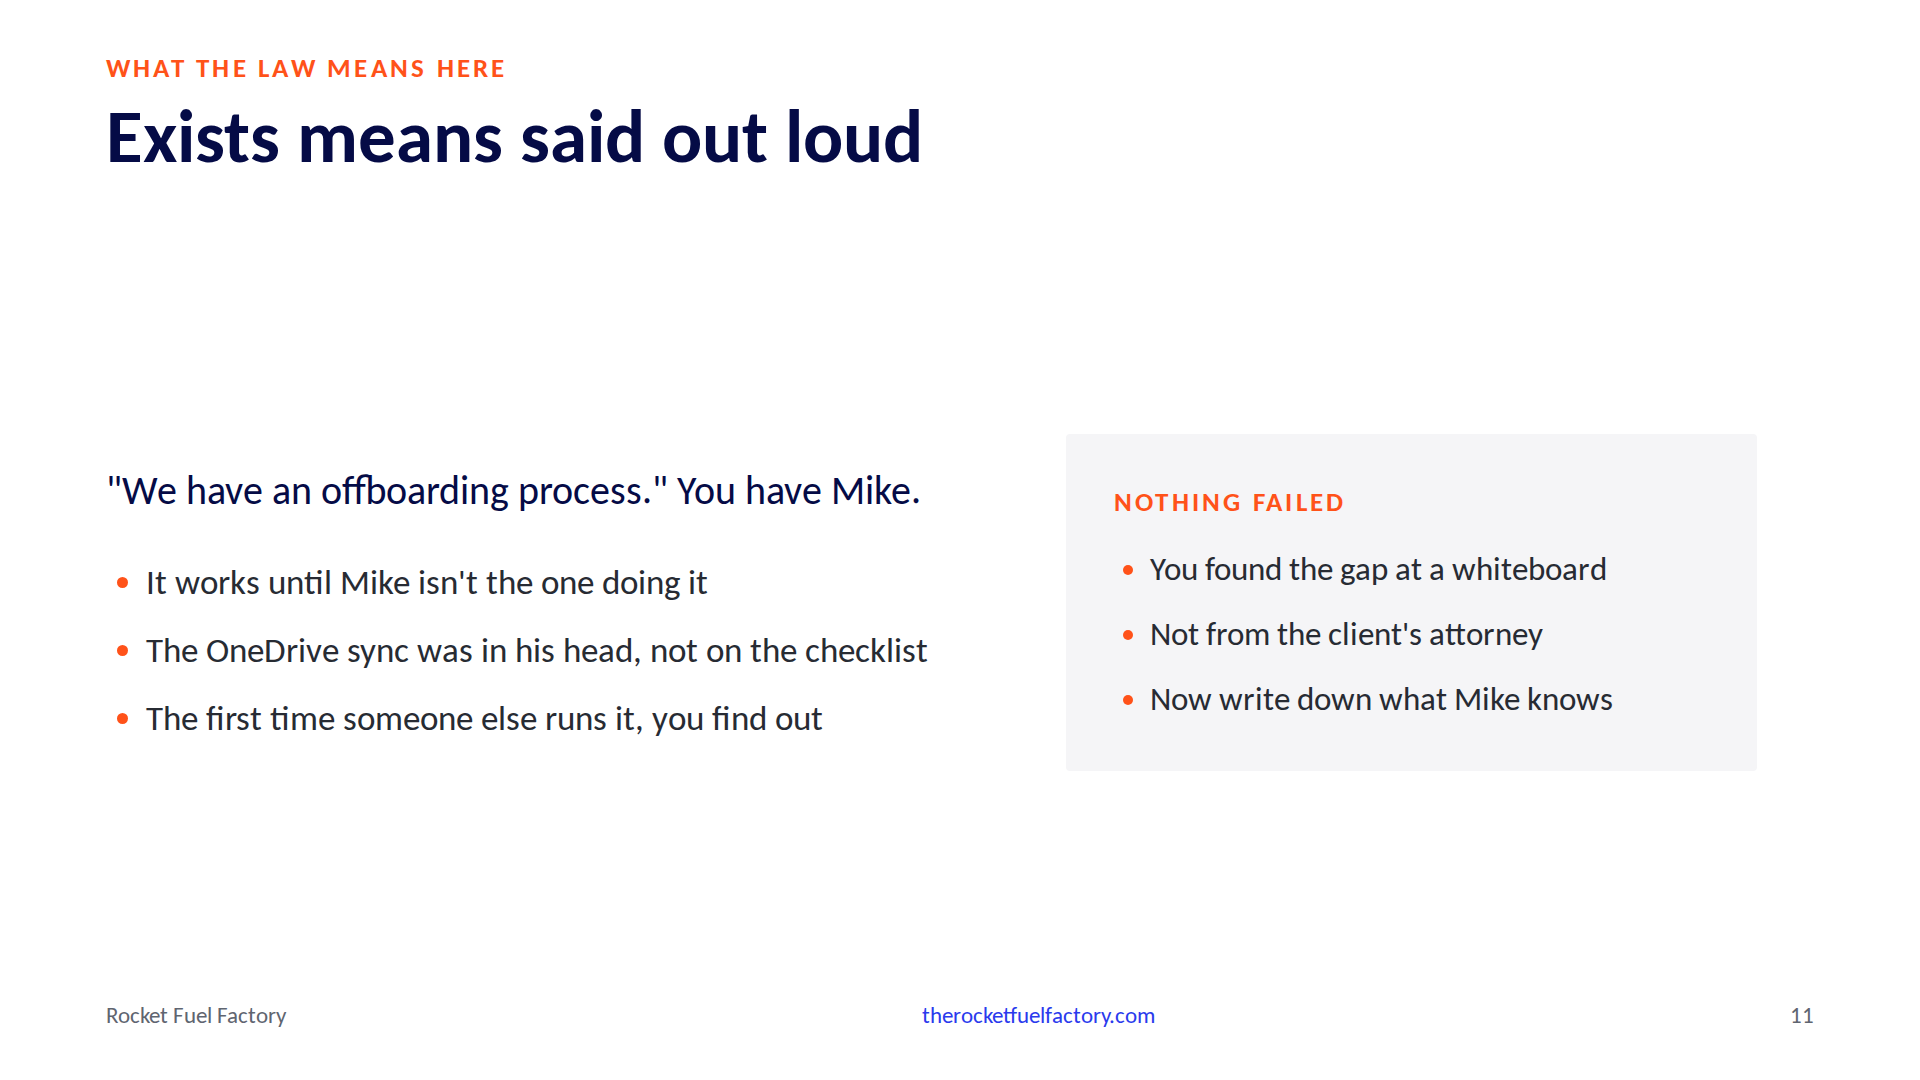
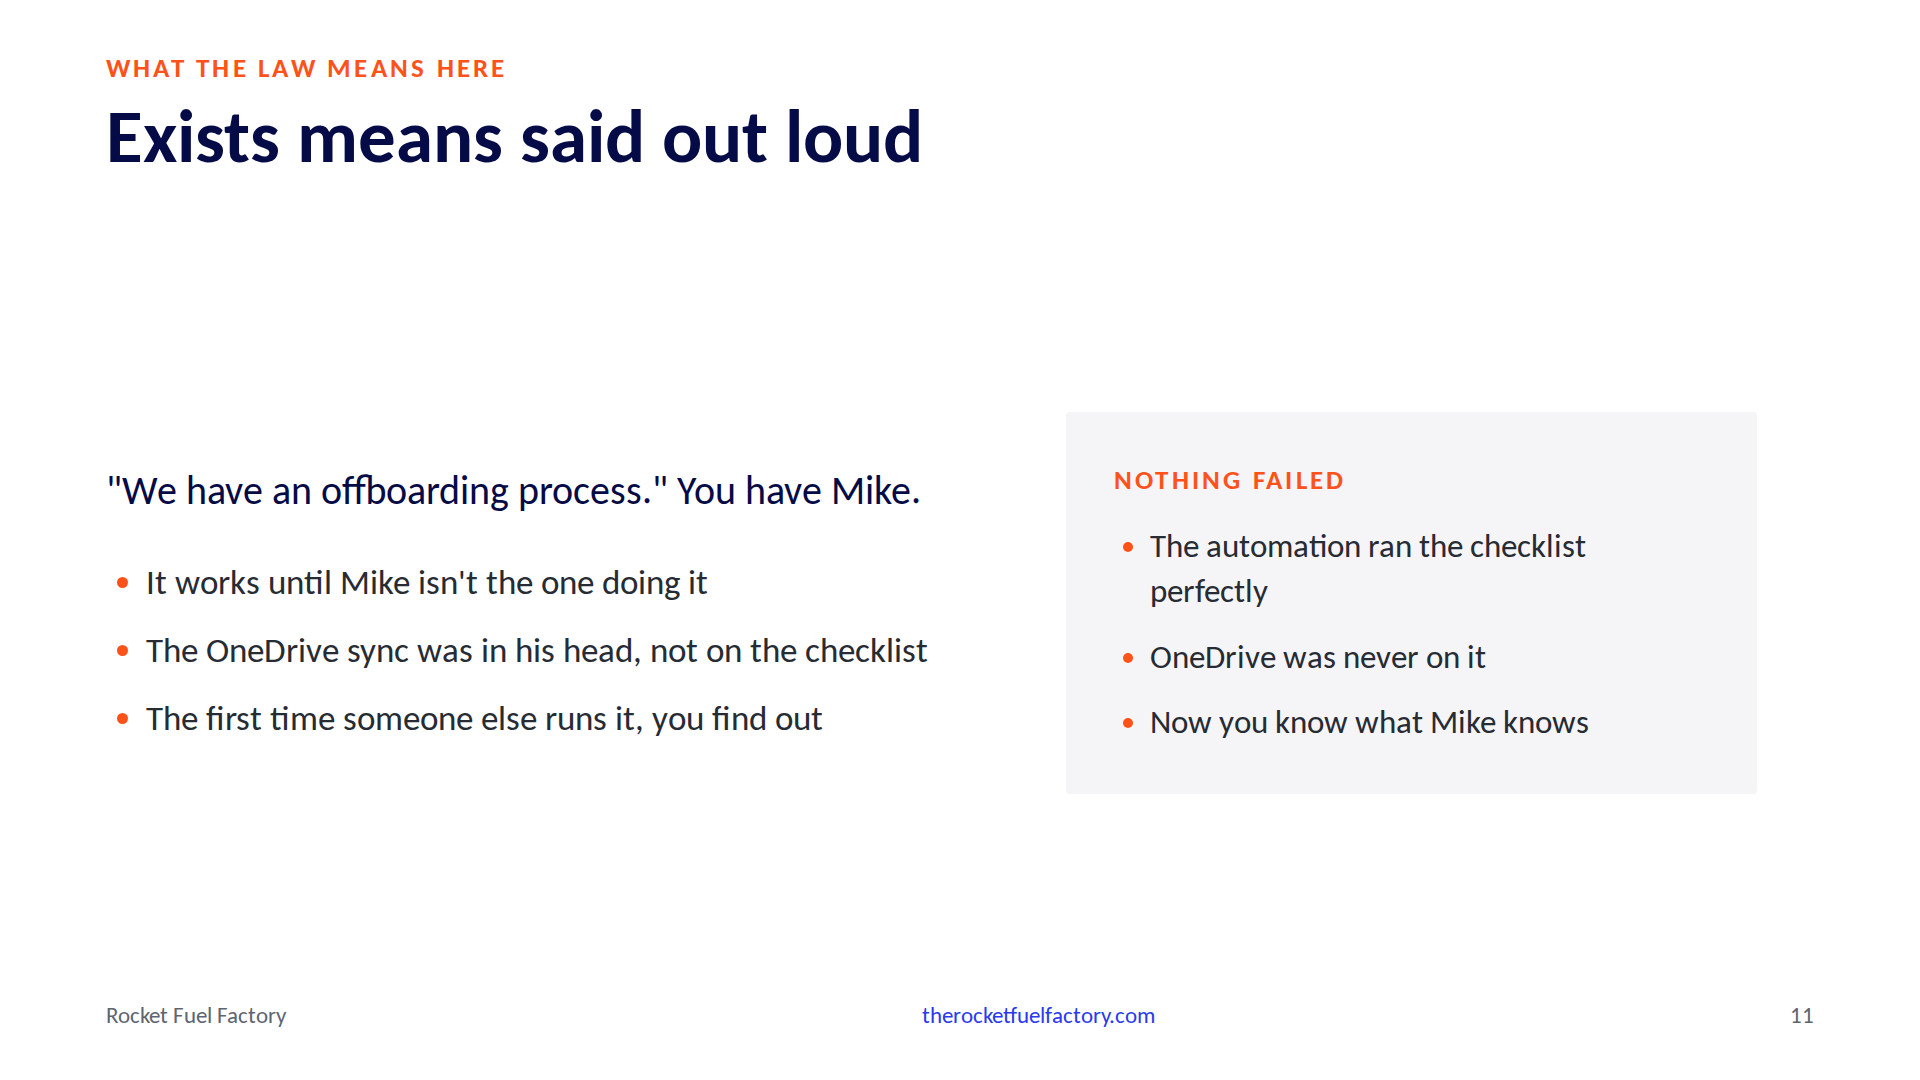
The automation ran the checklist perfectly; that is how you found out OneDrive was never on it

Changed region(s): [[0.5625, 0.4278, 0.8438, 0.7028]]

diff --git a/src/data/notes.js b/src/data/notes.js
@@ -14,7 +14,7 @@ export const notes = {
   'demo-strong': 'Target 8:30. Loud punchline: same tool, same task, the only thing that changed was how you asked. Under 150 words, Dr. Patel named, forwardable. Then the bridge, one breath, before the click. That is communication: hand over the judgment calls, not just the facts. Now take it to something bigger than an email. When you say we onboard new users, what you have is a ticket with the facts. The judgment calls are in someone\'s head. You just saw what happens when you hand that to a machine. Click.',
   'demo-ask': 'Target 5:30. Bridge, said before the click: this is where most people get frustrated and stop. Do not stop, and do not just ask it to try again. Ask it how you should have asked. Show the answer. Five things it wanted up front: who is reading, what on top of it was supposed to mean, whether the Q2 detail was a feature or a liability, tone, any business ask. Then read the punchline off the slide, slowly, and do not editorialize: I put it in, that is a 50/50 guess I should not have made silently. It knows. It just described abdication better than I did. Try this tonight on the last answer that disappointed you.',
   'aharons-law': 'Target 9:30. SLOW. Say the law, credit Aharon, two full seconds of silence. Then: I have been quoting this for years and it means something different every time. Here is what it means today. Click.',
-  'exists-means-said-out-loud': 'Target 10:00. The shop example, no AI in it. You say we have an offboarding process. Mike is on vacation. A client calls: the controller left Friday, is everything shut off? The tech covering runs the checklist, every box, says yes. Three weeks later the controller still has the company OneDrive synced to a personal laptop. Nobody skipped a step. The step was never on the list. It was in Mike, because Mike is the one who set that client up and Mike remembers. The process existed exactly as long as Mike was the one doing it. That is what does not exist means. And you cannot automate it, not because the tool cannot, because there is nothing there until someone writes down what Mike knows. An automation is just the next person who is not Mike. Card: nothing failed. You found the gap at a whiteboard, before anything shipped, not from the client attorney three weeks later. Bridge out: that is true of every one of the six I am about to show you, and it is why most shops automate the wrong ones. Click.',
+  'exists-means-said-out-loud': 'Target 10:00. The shop example, no AI in it. You say we have an offboarding process. Mike is on vacation. A client calls: the controller left Friday, is everything shut off? The tech covering runs the checklist, every box, says yes. Three weeks later the controller still has the company OneDrive synced to a personal laptop. Nobody skipped a step. The step was never on the list. It was in Mike. The process existed exactly as long as Mike was the one doing it. That is what does not exist means. Now the card, and this is the part I want them to hear: so you turn the checklist into an automation. It runs. Perfectly. Next offboarding, a tech asks who pulled the OneDrive sync, and the answer is nobody, because nobody ever had except Mike. The automation did not fail. It did the checklist exactly as written, and that is how you found out the checklist was complete and wrong. You would never have found that at a whiteboard. An automation is just the next person who is not Mike, and it is the first one that cannot fill in the blank. Bridge out: that is true of every one of the six I am about to show you, and it is why most shops automate the wrong ones. Click.',
   'the-wrong-things': 'Target 12:00. The one that bristles. Some people in the room sell auto-replies and templated QBRs. Say it anyway: that is automating the customer away. Automate the automaton instead. Line to land: automate to give time back to the customer, not to hide from them.',
   'where-delivery-leaks': 'Target 14:00. SLOW. Read all six. Each description is who the process is for, not what it saves you. Every one of these runs today on somebody filling in the blanks. Say: pick one. This is what Table 3 works from at 4:15.',
   'divider-where-ai-belongs': 'Target 16:00. Transition. Speed is what these machines give you unconditionally. It exposes bad instructions instantly and executes them instantly. Fast is only a gift once you have said what good looks like.',

diff --git a/src/components/slides/011-ExistsMeansSaidOutLoud.jsx b/src/components/slides/011-ExistsMeansSaidOutLoud.jsx
@@ -16,9 +16,9 @@ export default function ExistsMeansSaidOutLoud({ slideNumber }) {
       ]}
       cardTitle="Nothing failed"
       cardItems={[
-        'You found the gap at a whiteboard',
-        "Not from the client's attorney",
-        'Now write down what Mike knows',
+        'The automation ran the checklist perfectly',
+        'OneDrive was never on it',
+        'Now you know what Mike knows',
       ]}
     />
   )

diff --git a/docs/OUTLINE.md b/docs/OUTLINE.md
@@ -45,7 +45,7 @@ Closing line: If you can't write the rule, you can't hire your way out of it eit
 9. Forwardable without edits (full output). Under 150 words, Dr. Patel named. Loud: same tool, same task, the only thing that changed was how you asked. Bridge to Aharon, spoken: that is communication, hand over the judgment calls, not just the facts. Now take it to something bigger than an email. When you say we onboard new users, what you have is a ticket with the facts; the judgment calls are in someone's head. You just saw what happens when you hand that to a machine.
 
 10. Aharon's first law (pull statement). SLOW. You can't automate a process that doesn't exist. Aharon Chernin, Rewst. The meaning here: exists means has been said out loud. The law is not about the shop with no process; it is about the shop that thinks it has one and actually has a person who knows what the owner meant. The first automation attempt is the first receiver that cannot nod and fill in the blanks, which is why it is worth doing even if it never ships. Nothing failed; you found out cheaply. Then click to the offboarding example, which is where the meaning lands on a shop instead of a prompt.
-11. Exists means said out loud (two-column, orange). The shop example, no AI in it. "We have an offboarding process." You have Mike. It works until Mike isn't the one doing it; the OneDrive sync was in his head, not on the checklist; the first time someone else runs it, you find out. Mike was on vacation, the covering tech ran every box, nobody skipped a step, the step was never on the list. An automation is just the next person who is not Mike. Card: nothing failed. You found the gap at a whiteboard, not from the client's attorney. Now write down what Mike knows. Bridge out: true of every one of the six coming next, and why most shops automate the wrong ones.
+11. Exists means said out loud (two-column, orange). The shop example, no AI in it. "We have an offboarding process." You have Mike. It works until Mike isn't the one doing it; the OneDrive sync was in his head, not on the checklist; the first time someone else runs it, you find out. Mike was on vacation, the covering tech ran every box, nobody skipped a step, the step was never on the list. An automation is just the next person who is not Mike. Card: nothing failed. You turned the checklist into an automation, it ran perfectly, and the next offboarding showed OneDrive was never on it. The checklist was complete and wrong; the automation is the first receiver that cannot fill in the blank. Now you know what Mike knows. Bridge out: true of every one of the six coming next, and why most shops automate the wrong ones.
 
 12. Most MSPs automate the wrong things (comparison, orange). Automating the customer away: ticket auto-replies, templated QBRs, onboarding nobody attends. Automating the automaton: reading one screen and typing into another, checking the same thing every morning, chasing the same approval. Line: automate to give time back to the customer, not to hide from them.
 13. Six processes, one sentence each (agenda, orange). SLOW. Onboarding so the client's first day works; offboarding so nothing is left open; alert triage so a human only sees what needs one; access requests so the identity check happens; status updates so they hear it from you first; license reconciliation so you stop paying for ghosts. Pick one. Table 3 works from this.
